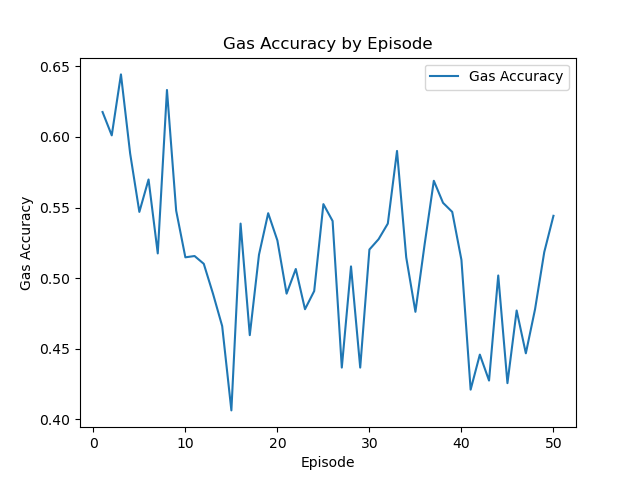
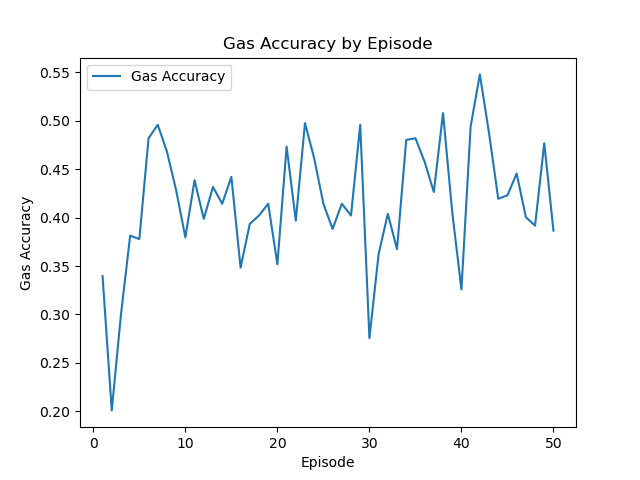
plot

diff --git a/src/Q_simulator.py b/src/Q_simulator.py
@@ -190,7 +190,7 @@ def plot_results(reward_func, policy_func, lawn_size, plot_depth, training_depth
         env = Q_Environment(sim_file, depth=plot_depth)
         sim = Q_Simulator(env)
         for idx, q_table  in enumerate(q_tables, start=1):
-            gas_accuracy: float = sim.test_agent(reward_func=reward_funcs.reward_trace_area, policy=policy_funcs.episilon_greedy, q_table=q_table)
+            gas_accuracy: float = sim.test_agent(reward_func=reward_funcs.reward_trace_area, policy=policy_funcs.soft_max, q_table=q_table, max_steps=500)
             episodes.append(idx)
             gas_accuracies.append(gas_accuracy)
             if idx in episodes_numbers_to_plot:
@@ -204,4 +204,4 @@ def plot_results(reward_func, policy_func, lawn_size, plot_depth, training_depth
 
 
 if __name__ == "__main__":
-    plot_results(reward_funcs.reward_gas_level, policy_funcs.episilon_greedy, 60, 65, 66)
+    plot_results(reward_funcs.reward_gas_level, policy_funcs.episilon_greedy, 70, 67, 66)

diff --git a/src/AUV_plot_utils.py b/src/AUV_plot_utils.py
@@ -78,7 +78,7 @@ def plot_by_episodes(gas_accuracies, agents_behaviours_to_plot, depth, episodes,
     else:
         plt.show()
         plt.close()
-    for idx, behaviour in enumerate(agents_behaviours_to_plot, start=1):
+    for idx, behaviour in enumerate(agents_behaviours_to_plot):
         plot_agent_behavior(behaviour, chemical_file_path=chemical_file_path, time_target=0, z_target=depth, data_parameter='pH', figure_name=f'{figure_name}_{idx}.png')
 
 def animate_agent_behavior(position_history, chemical_file_path, time_target, z_target, data_parameter='pH', gif_name=None, interval=100, sprite_path=None) -> None:
